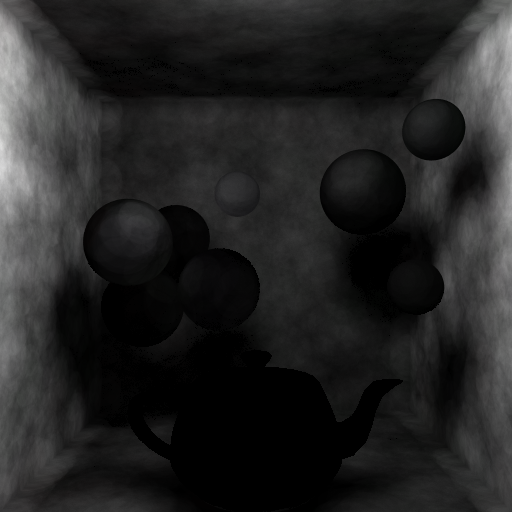
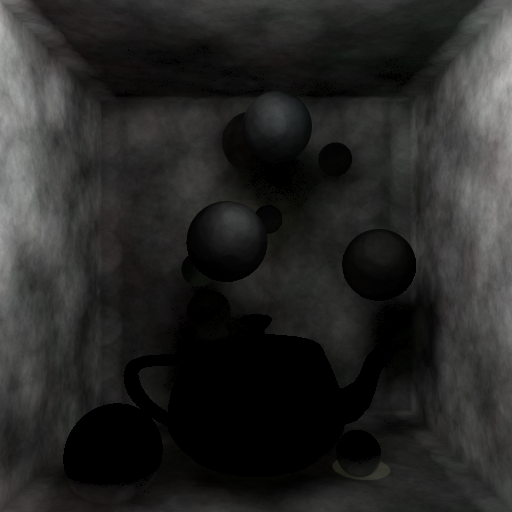
Add colour to dielectric material

diff --git a/src/material/dielectric.rs b/src/material/dielectric.rs
@@ -13,14 +13,19 @@ use crate::{
 #[derive(Clone, Debug, PartialEq)]
 pub struct Dielectric {
     refractive_index: f32,
+    colour: Colour,
 }
 
 impl Dielectric {
-    pub fn new(refractive_index: f32) -> Self {
-        Dielectric { refractive_index }
+    pub fn new(refractive_index: f32, colour: Colour) -> Self {
+        Dielectric {
+            refractive_index,
+            colour,
+        }
     }
 
     fn refract(hit: &Hit, ratio: f32) -> Vec3A {
+        // calculate direction of a refracted ray
         let cos_theta = (-hit.incident.direction.normalize())
             .dot(hit.normal)
             .min(1.);
@@ -47,9 +52,9 @@ impl Material for Dielectric {
     ) -> Colour {
         let event = self.interact(hit);
         if let Interaction::Transmitted { ray, attenuation } = event {
-            scene.raytrace(ray, recurse - 1, viewer, pmap).0
+            scene.raytrace(ray, recurse - 1, viewer, pmap).0 * attenuation
         } else if let Interaction::Reflected { ray, attenuation } = event {
-            scene.raytrace(ray, recurse - 1, viewer, pmap).0
+            scene.raytrace(ray, recurse - 1, viewer, pmap).0 * attenuation
         } else {
             unreachable!()
         }
@@ -71,14 +76,14 @@ impl Material for Dielectric {
             let ray = Ray::new(hit.position + 0.001 * r, r);
             Interaction::Transmitted {
                 ray,
-                attenuation: Colour::from_rgb(1., 1., 1.),
+                attenuation: self.colour,
             }
         } else {
             let r = hit.incident.direction.reflect(hit.normal);
             let ray = Ray::new(hit.position + 0.001 * r, r);
             Interaction::Reflected {
                 ray,
-                attenuation: Colour::from_rgb(1., 1., 1.),
+                attenuation: self.colour,
             }
         }
     }

diff --git a/src/main.rs b/src/main.rs
@@ -49,14 +49,14 @@ fn main() {
         0.,
     );
 
-    // build caustics map
+    // build caustics map WARNING: SLOW
     // let caustic_pmap = PhotonMap::build_caustics(&scene);
 
     // camera generates rays for each pixel in the framebuffer and records colour + depth.
     let pmap = PhotonMap::build(&scene);
     camera.render(&scene, &mut fb, &pmap);
 
-    // build the visualisation for the photon map for debugging
+    // build the visualisation for the photon map for debugging WARNING: SLOW
     // camera.visualise_photons(&pmap, &scene, &mut photons_fb);
 
     // add the caustics map to the frame buffer
@@ -94,7 +94,7 @@ fn build_c_box(scene: &mut Scene) {
         Colour::from_rgb(0.5, 0.5, 0.5),
         40.,
     );
-    let mat_glass = Dielectric::new(1.52);
+    let mat_glass = Dielectric::new(1.52, Colour::from_rgb(1., 1., 1.));
 
     // floor
     scene.add_object(Triangle::new_with_material(
@@ -214,10 +214,11 @@ fn spawn_sphere(min_pos: Vec3A, max_pos: Vec3A, max_rad: f32) -> Sphere {
 }
 
 fn build_scene(scene: &mut Scene) {
+    // creat materials
     let mat_white = Diffuse::new(Colour::from_rgb(0.6, 0.6, 0.6));
-    let mat_red = Diffuse::new(Colour::from_rgb(0.4, 0., 0.));
-    let mat_green = Diffuse::new(Colour::from_rgb(0., 0.64, 0.));
-    let mat_glass = Dielectric::new(1.52);
+    let mat_red = Diffuse::new(Colour::from_rgb(0.6, 0., 0.));
+    let mat_green = Diffuse::new(Colour::from_rgb(0., 0.6, 0.));
+    let mat_glass = Dielectric::new(1.52, Colour::from_rgb(1., 0.9, 0.8));
 
     // create teapot
     let mut pm = PolyMesh::new("teapot_smaller.ply", true, false);
